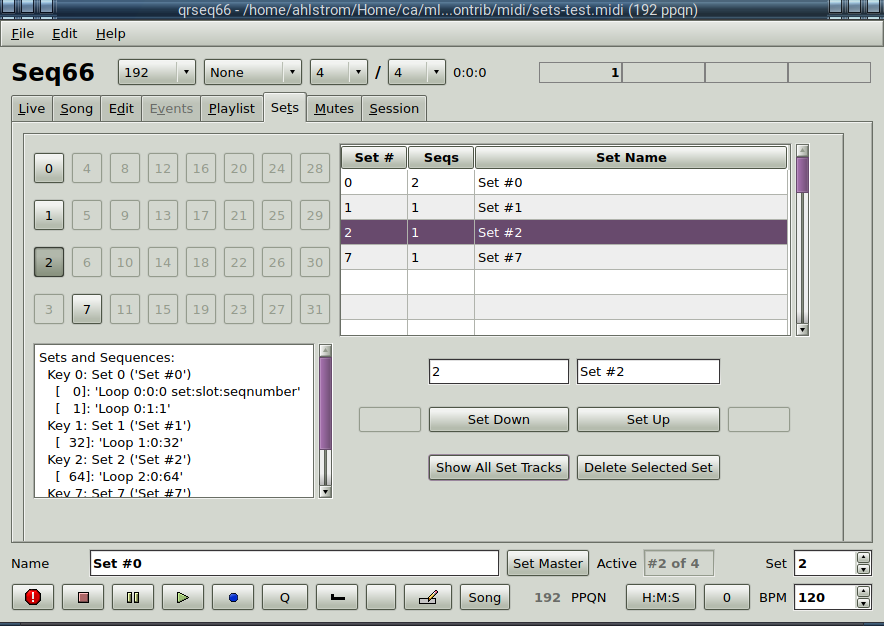
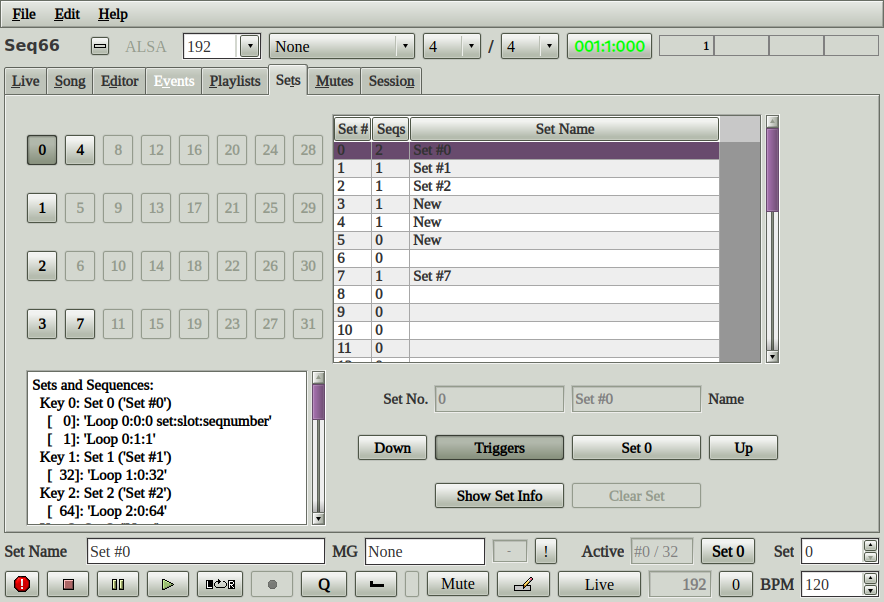
Set Master almost complete and documented.

diff --git a/doc/latex/tex/setmaster.tex b/doc/latex/tex/setmaster.tex
@@ -6,7 +6,7 @@
 % \library     Documents
 % \author      Chris Ahlstrom
 % \date        2020-01-13
-% \update      2020-03-12
+% \update      2023-11-11
 % \version     $Revision$
 % \license     $XPC_GPL_LICENSE$
 %
@@ -20,7 +20,10 @@
 
    The \textbf{Set Master} is a way to get a global view of all the screensets
    in a \textsl{Seq66} MIDI file, and to be able to do some simple operations
-   (movement, naming, etc.) with the sets.  It is still a work in progress.
+   (movement, naming, etc.) with the sets.
+   In the latest version of \textsl{Seq66}, there are always 32 sets.
+   This simplifies the handling of sets.
+   Some sets may be empty.
 
 \begin{figure}[H]
    \centering 
@@ -30,40 +33,63 @@
 \end{figure}
 
    The operations that can be done consist of viewing the sets, making a
-   screenset active, rearranging the sets, removing sets, and getting a survey of
-   the contents of the sets.
+   screenset active, rearranging the sets, clearing sets, and getting a survey
+   of the contents of the sets.
 
    \setcounter{ItemCounter}{0}      % Reset the ItemCounter for this list.
 
    \itempar{Sets Grid}{set master!grid}
-   The set grid is (presumably) always 4 x 8.  Like the mute-groups, there's not
+   The set grid is always 4 x 8.  Like the mute-groups, there's not
    a lot of benefit supporting more sets.  The reader may wish to email us
    arguing for a different point of view.
    \index{play screen}
-   This grid shows the sets that are
-   present in the MIDI file, and allows one to choose which set is currently
+   This grid shows the non-empty sets that are present in the MIDI file,
+   represented by enabled buttons.
+   With \textbf{Triggers} mode set, this  allows one to choose which set
+   is currently
    active (i.e. which is the "play screen").
    Click on it and it is active.
    Also remember that keystrokes (\texttt{[} and \texttt{]} by default)
+   in the main window can move the playscreen to the previous or next set.
  
    \itempar{Set List}{set master!list}
-   The table at the right shows the set numbers, how many patterns/sequences are
-   in each set, and the set name.  Eventually the set name will be editable.
+   The table at the right shows the set numbers, how many patterns/sequences
+   are in each set, and the set name.  The set name is editable once it is
+   double-clicked.
 
    \itempar{Set Number/Name Fields}{set master!number/name}
+   Currently just shows the number and name of the selected set.
    Eventually, these fields will be editable.
 
-   \itempar{Set Up/Down Buttons}{set master!up/down buttons}
-   These buttons allow the user to move the sets up and down.
+   \itempar{Up/Down Buttons}{set master!up/down buttons}
+   These buttons allow the user to move the selected set up and down
+   in the list.
 
-   \itempar{Show All Set Tracks}{set master!show all set tracks}
-   Clicking this button lists all the sets and their tracks in the edit box at
-   the left. This functionality is provisional.
+   \itempar{Show Set Info}{set master!show set info}
+   Clicking this button lists all the sets and their tracks in the
+   read-only edit box at the left.
 
-   \itempar{Delete Selected Set}{set master!delete selected set}
-   Clicking this button deletes the set selected in the table above it.
-   Note that the 0th set cannot be deleted.
+   \itempar{Clear Set}{set master!clear set}
+   Clicking this button deletes the patterns from the 
+   set selected in the table.
+   Note that the 0th set cannot be cleared.
+   Would one ever want to do that?
    In \textsl{Seq66}, there must always be a set 0.
+
+   \itempar{Triggers}{set master!set triggers}
+   This checkable button toggles the action done by clicking a button
+   in the set grid.
+   If checked, then clicking an active set button will make that
+   set active during playback.
+   That effect depends on whether the sets are configured to auto-arm when
+   selected, or not.
+   If not checked, then clicking an active set button merely summarizes the
+   patterns in the set, in the text field below the set grid.
+
+   \itempar{Set 0}{set master!set 0}
+   If trigger mode is in effect, clicking this button makes
+   set 0 active.
+   An alternative to clicking on grid button 0.
 
 \subsection{Set Handling}
 \label{subsec:setmaster_handling}

diff --git a/seq_qt5/src/qsetmaster.cpp b/seq_qt5/src/qsetmaster.cpp
@@ -107,6 +107,7 @@ qsetmaster::qsetmaster
     m_current_row           (seq::unassigned()),
     m_current_row_count     (cb_perf().screenset_count()),
     m_needs_update          (true),
+    m_trigger_mode          (false),
     m_table_initializing    (true)
     /*
      * m_is_permanent       (embedded)
@@ -209,6 +210,19 @@ qsetmaster::setup_table ()
     (
         ui->m_set_table, SIGNAL(cellChanged(int, int)),
         this, SLOT(slot_cell_changed(int, int))
+    );
+    ui->m_button_toggle_trigger_mode->setCheckable(true);
+    ui->m_button_toggle_trigger_mode->setChecked(false);
+    connect
+    (
+        ui->m_button_toggle_trigger_mode, SIGNAL(clicked()),
+        this, SLOT(slot_toggle_trigger_mode())
+    );
+    ui->m_button_set_0->setEnabled(false);
+    connect
+    (
+        ui->m_button_set_0, SIGNAL(clicked()),
+        this, SLOT(slot_set_0())
     );
 }
 
@@ -364,6 +378,8 @@ qsetmaster::slot_table_click_ex
         ui->m_button_down->setEnabled(true);
         ui->m_button_up->setEnabled(true);
         ui->m_button_delete->setEnabled(row > 0);
+        ui->m_set_number_text->setText(qt(std::to_string(row)));
+        ui->m_set_name_text->setText(qt(cb_perf().set_name(row)));
     }
 }
 
@@ -387,6 +403,20 @@ qsetmaster::slot_cell_changed (int row, int column)
             }
         }
     }
+}
+
+void
+qsetmaster::slot_toggle_trigger_mode ()
+{
+    m_trigger_mode = ! m_trigger_mode;
+    ui->m_button_set_0->setEnabled(m_trigger_mode);
+}
+
+void
+qsetmaster::slot_set_0 ()
+{
+    if (m_trigger_mode)
+        m_main_window->slot_set_home();
 }
 
 void
@@ -459,6 +489,15 @@ qsetmaster::handle_set (int setno)
         (
             qt(cb_perf().set_to_string(setno))
         );
+
+        /*
+         *  If trigger-mode is active, then update the playscreen to that
+         *  screenset.
+         */
+
+        if (m_trigger_mode)
+            m_main_window->update_bank(setno);
+
         set_needs_update();
     }
 }

diff --git a/seq_qt5/include/qsetmaster.hpp b/seq_qt5/include/qsetmaster.hpp
@@ -27,7 +27,7 @@
  * \library       seq66 application
  * \author        Chris Ahlstrom
  * \date          2019-05-11
- * \updates       2023-11-09
+ * \updates       2023-11-11
  * \license       GNU GPLv2 or above
  *
  *  We want to be able to survey the existing screen-sets and sequences, and
@@ -188,6 +188,8 @@ private slots:
         int row, int /*column*/, int /*prevrow*/, int /*prevcolumn*/
     );
     void slot_cell_changed (int row, int column);
+    void slot_toggle_trigger_mode ();
+    void slot_set_0 ();
 
 private:
 
@@ -247,6 +249,12 @@ private:
      */
 
     mutable bool m_needs_update;
+
+    /**
+     *  Enables using the buttons to select the playing screenset.
+     */
+
+    bool m_trigger_mode;
 
     /**
      *  EXPERIMENT

diff --git a/libseq66/src/play/performer.cpp b/libseq66/src/play/performer.cpp
@@ -2010,13 +2010,15 @@ performer::new_sequence (sequence * seqptr, seq::number seqno)
             result = not_nullptr(s);
             if (result)
             {
-                int finalseq = s->seq_number();
+                seq::number finalseq = s->seq_number();
+                screenset::number setno = set_mapper().seq_set(seqno);
                 s->set_dirty();
 #if defined SEQ66_ROUTE_EVENTS_BY_BUSS
                 m_route_by_buss = sequence_lookup_setup();
 #endif
                 announce_sequence(s, finalseq);         /* issue #112       */
                 notify_sequence_change(finalseq, change::recreate);
+                notify_set_change(setno, change::yes);
             }
         }
     }

diff --git a/libseq66/include/play/performer.hpp b/libseq66/include/play/performer.hpp
@@ -2653,7 +2653,7 @@ public:
 
     screenset::number playscreen_number () const
     {
-        return set_mapper().playscreen_number();    // not in setmaster purview!
+        return set_mapper().playscreen_number();
     }
 
     seq::number playscreen_offset () const
